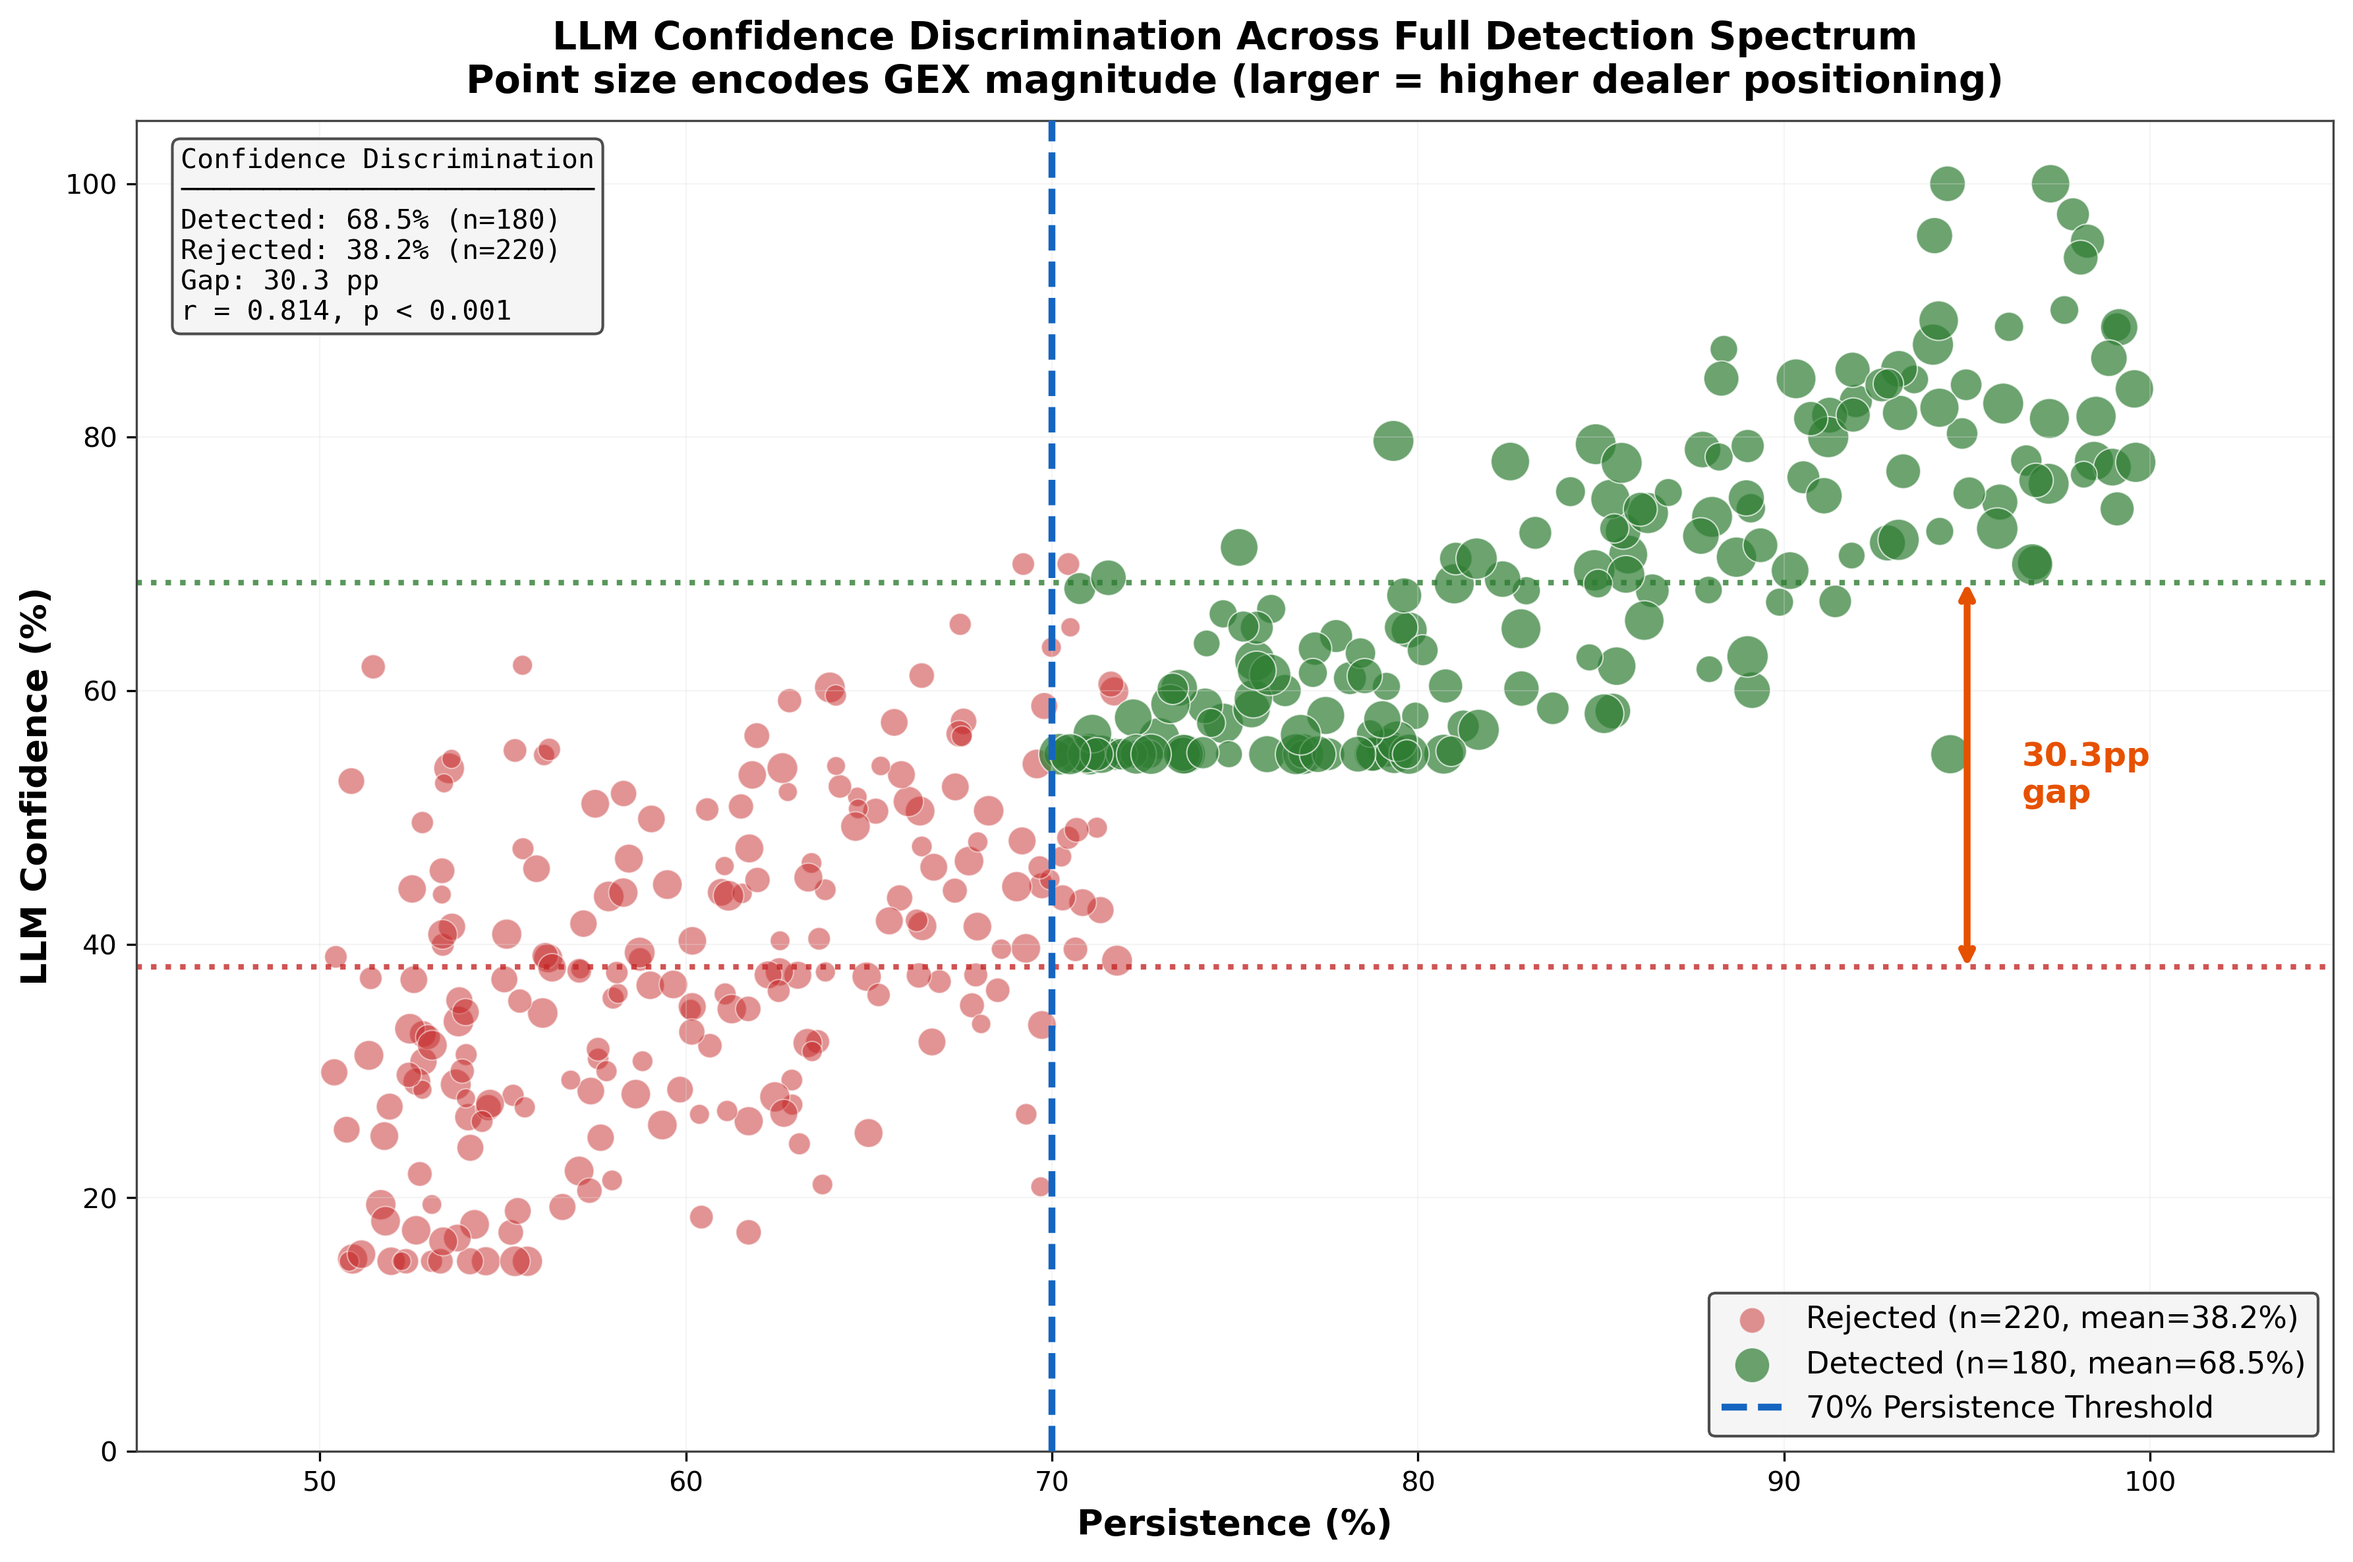
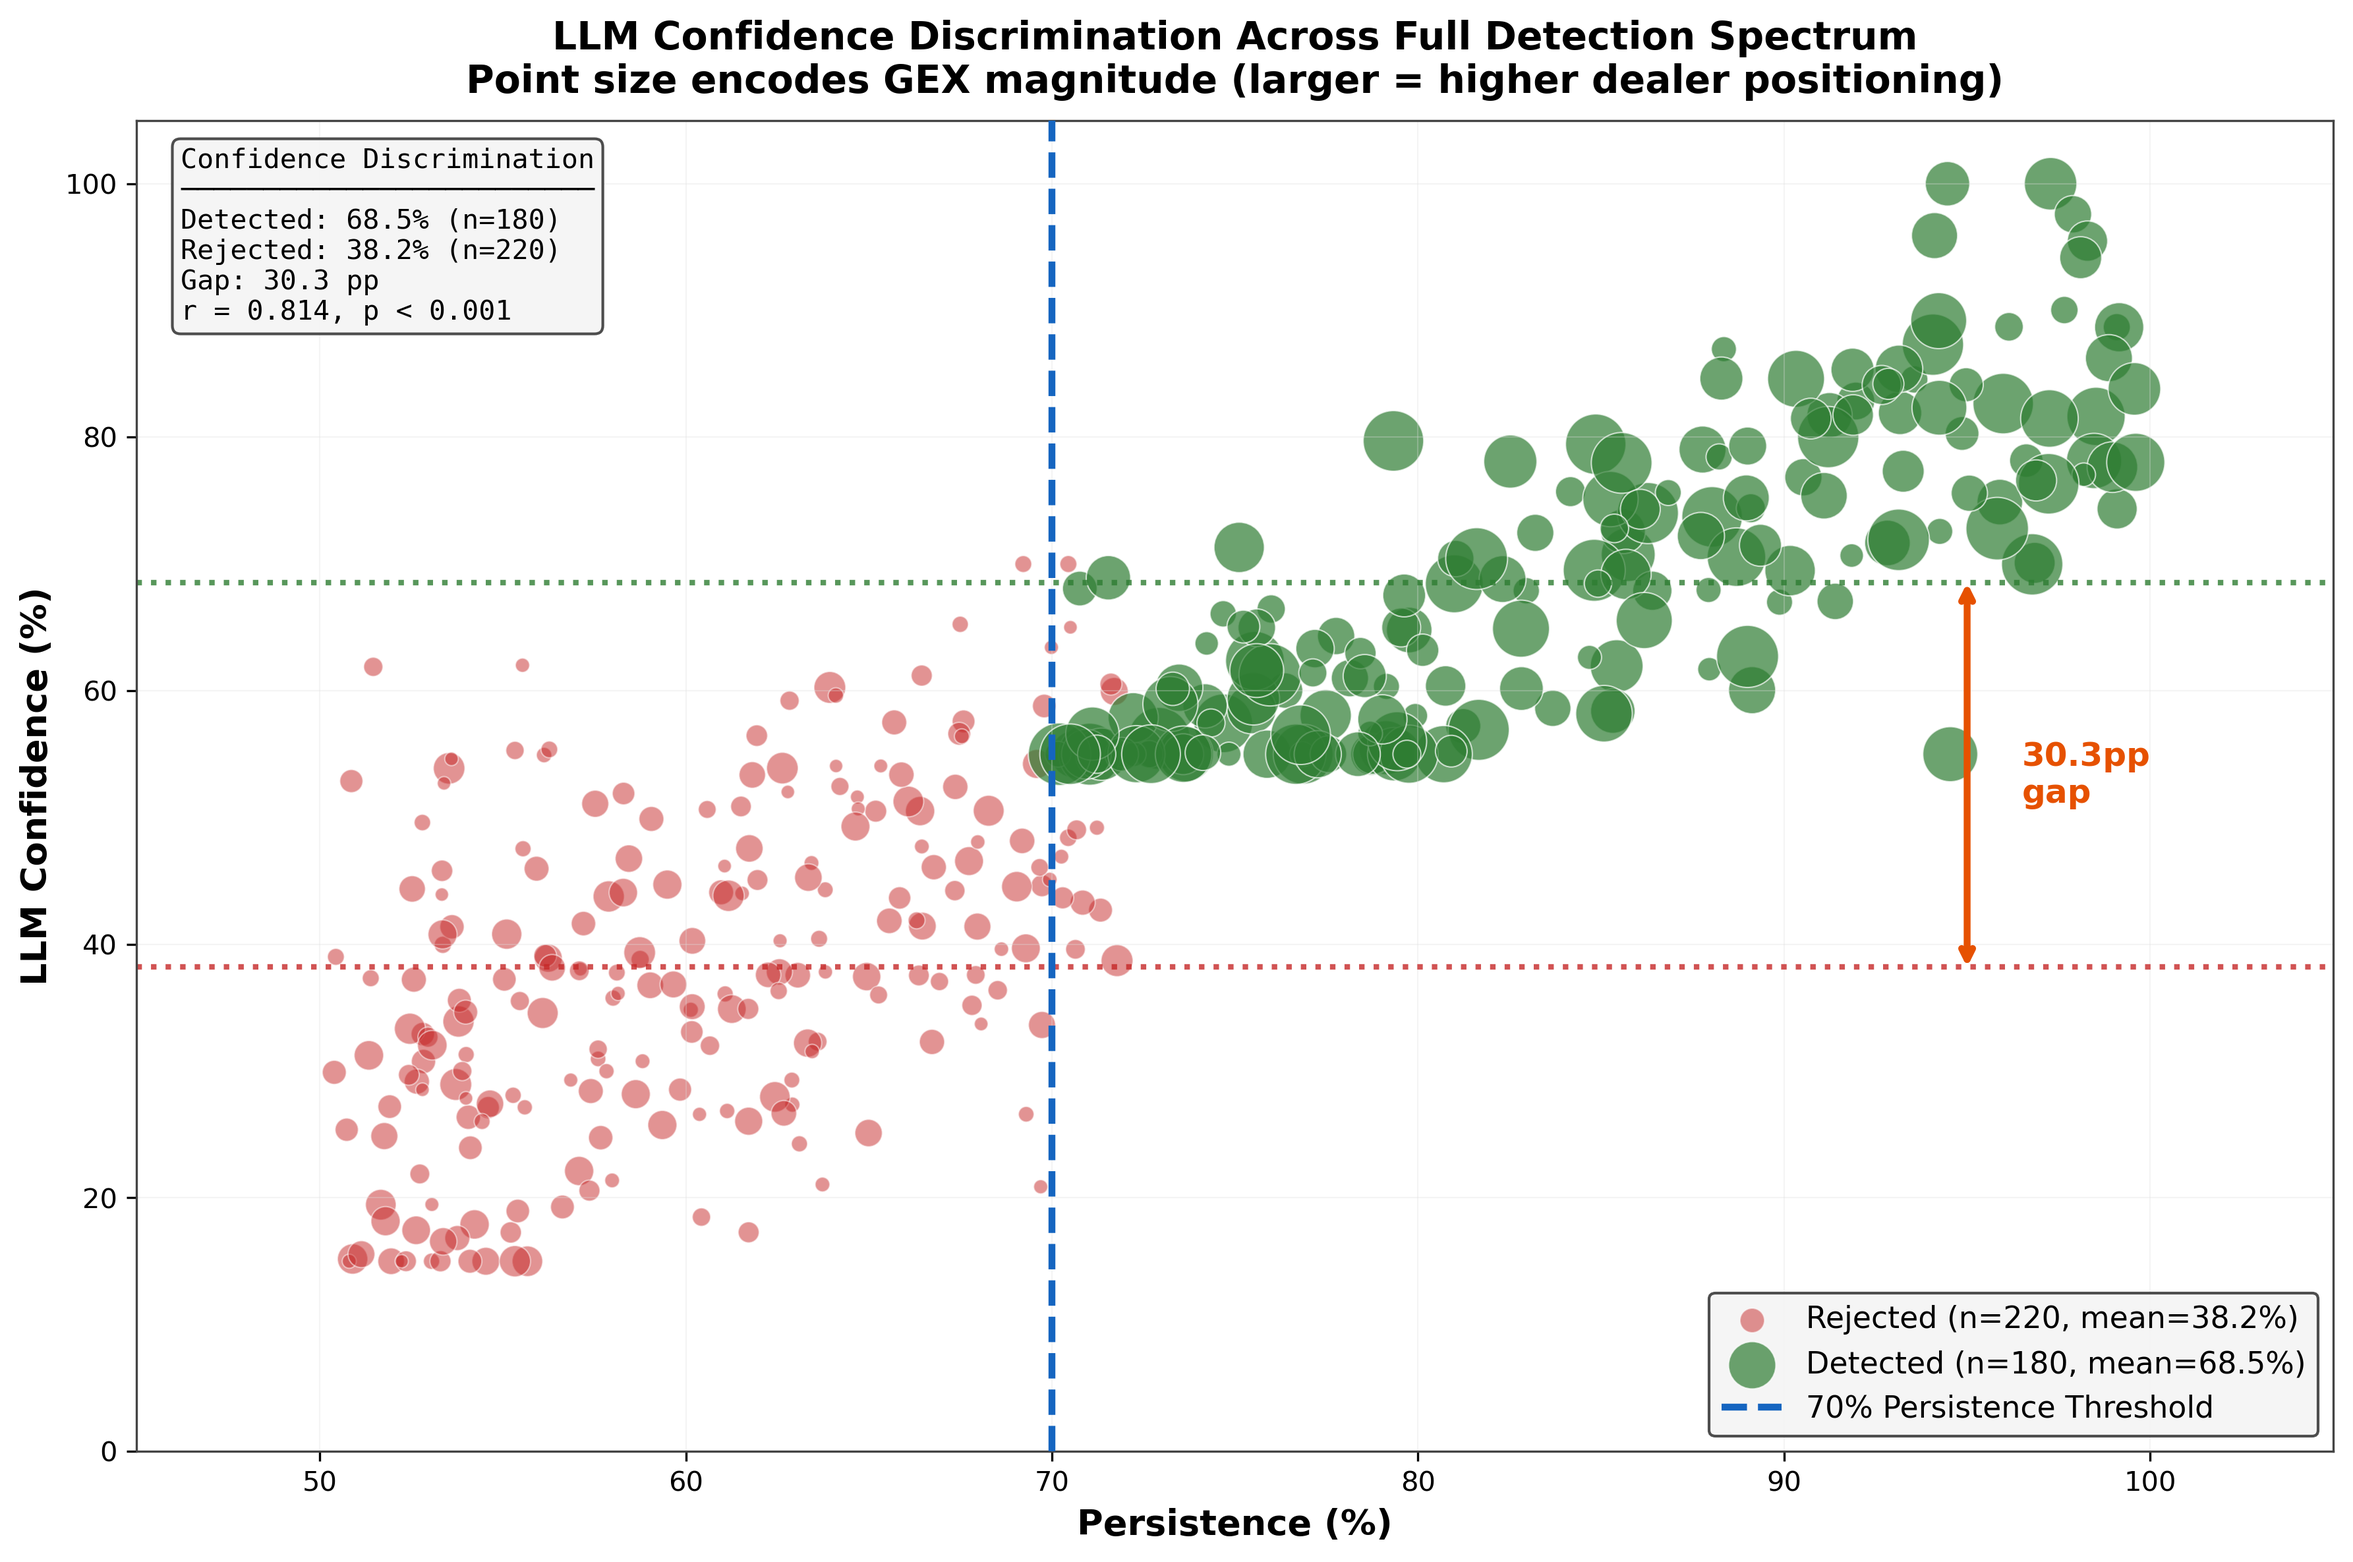
fix(paper2): Exaggerate dot size scaling for magnitude visualization

diff --git a/docs/papers/paper2/figures/scripts/fig07_confidence_discrimination.py b/docs/papers/paper2/figures/scripts/fig07_confidence_discrimination.py
@@ -113,9 +113,11 @@ def create_figure(data):
     fig.patch.set_facecolor(IEEE_THEME["background"])
     ax.set_facecolor(IEEE_THEME["background"])
 
-    # Normalize magnitude for point sizes
-    sizes_detected = (data["magnitude"][detected_mask] / data["magnitude"].max()) * 200 + 30
-    sizes_rejected = (data["magnitude"][rejected_mask] / data["magnitude"].max()) * 200 + 30
+    # Normalize magnitude for point sizes - SQUARED for dramatic visual distinction
+    # # Normalize magnitude for point sizesB days should look "massive" compared to B days
+    norm_mag = data["magnitude"] / data["magnitude"].max()
+    sizes_detected = (norm_mag[detected_mask] ** 2) * 500 + 20
+    sizes_rejected = (norm_mag[rejected_mask] ** 2) * 500 + 20
 
     # Plot rejected points first (background)
     ax.scatter(
